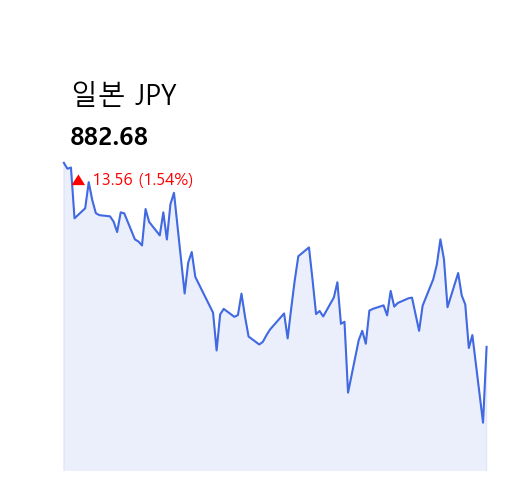
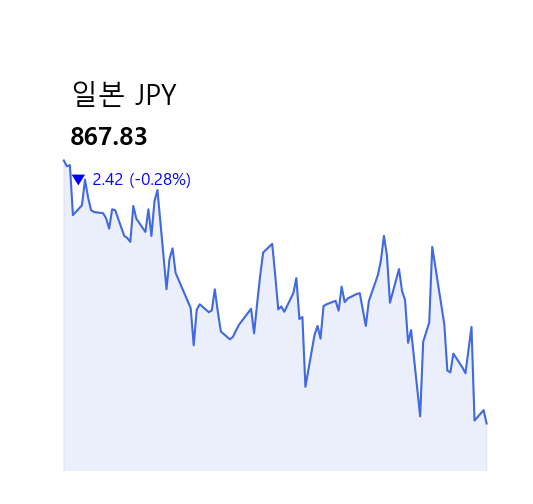
Update dynamic ER-graph & Add Image URl

Changed region(s): [[0.1203, 0.3274, 0.9323, 0.8333], [0.1504, 0.2381, 0.2707, 0.2976], [0.2406, 0.1488, 0.3308, 0.2083]]

diff --git a/final_pjt_back/exchangerate/views.py b/final_pjt_back/exchangerate/views.py
@@ -2,6 +2,7 @@ from rest_framework.response import Response
 from rest_framework.decorators import api_view
 from rest_framework import status
 from django.shortcuts import get_object_or_404
+from django.templatetags.static import static
 from django.http import JsonResponse
 from django.conf import settings
 import requests
@@ -12,7 +13,7 @@ import pandas as pd
 import requests
 import matplotlib.pyplot as plt
 import matplotlib.font_manager as fm
-from PIL import Image
+from datetime import datetime
 
 font_path = 'C:/Windows/Fonts/malgunbd.ttf'
 font_name = fm.FontProperties(fname=font_path).get_name()
@@ -96,8 +97,11 @@ def ER_graph(request):
  
     API_KEY='HSYHTREWFIJQ9TKHK8ES'
 
+    urls = []
     for c in range(len(codes)):
-        url='https://ecos.bok.or.kr/api/StatisticSearch/'+API_KEY+'/json/kr/1/100/731Y001/D/20240101/20240516/'+codes[c]+'/'
+        
+        enddate=datetime.now().strftime('%Y%m%d')
+        url='https://ecos.bok.or.kr/api/StatisticSearch/'+API_KEY+'/json/kr/1/100/731Y001/D/20240101/'+enddate+'/'+codes[c]+'/'
 
         response = requests.get(url)
         result = response.json()
@@ -109,7 +113,7 @@ def ER_graph(request):
         for i in range(0,list_count):
             start = str(i * 100 + 1)
             end = str((i + 1) * 100)
-            url='https://ecos.bok.or.kr/api/StatisticSearch/'+API_KEY+'/json/kr/'+ start +'/'+ end +'/731Y001/D/20240101/20240501/'+codes[c]+'/'
+            url='https://ecos.bok.or.kr/api/StatisticSearch/'+API_KEY+'/json/kr/'+ start +'/'+ end +'/731Y001/D/20240101/20240524/'+codes[c]+'/'
             response = requests.get(url)
             result = response.json()
             rows = rows + result['StatisticSearch']['row']
@@ -154,7 +158,10 @@ def ER_graph(request):
         save_path = settings.STATICFILES_DIRS[0] / 'ER-graph' / (names[c] + '.png')
         plt.savefig(save_path, format='png', bbox_inches='tight')
 
-    return JsonResponse({'message':'그래프 저장 완료'})
+        image_url = request.build_absolute_uri(static(str(save_path)))
+        urls.append(image_url)
+
+    return JsonResponse({'urls': urls})
 
 @api_view(['GET'])
 def save_flag(request):
